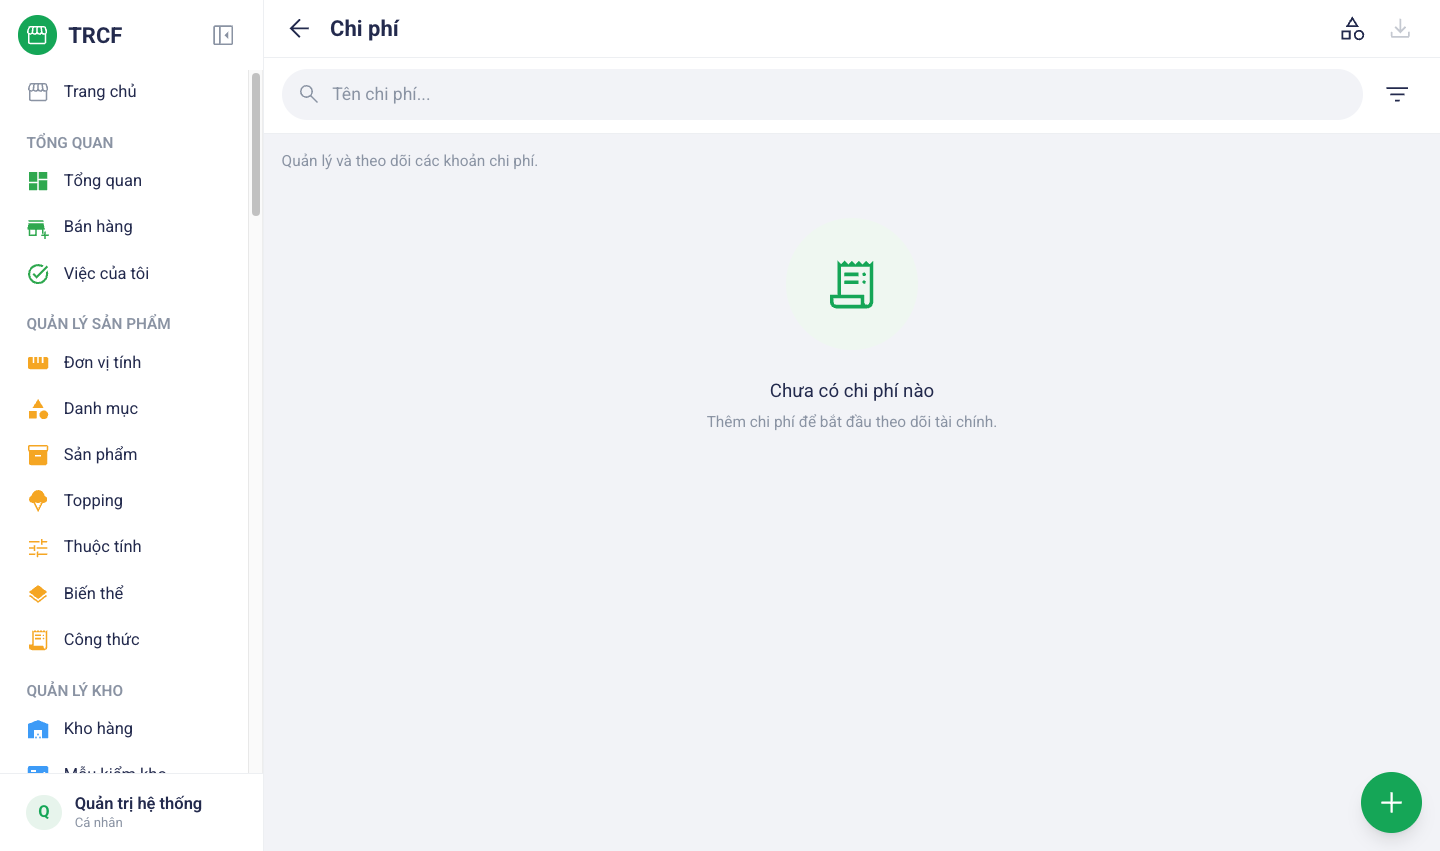
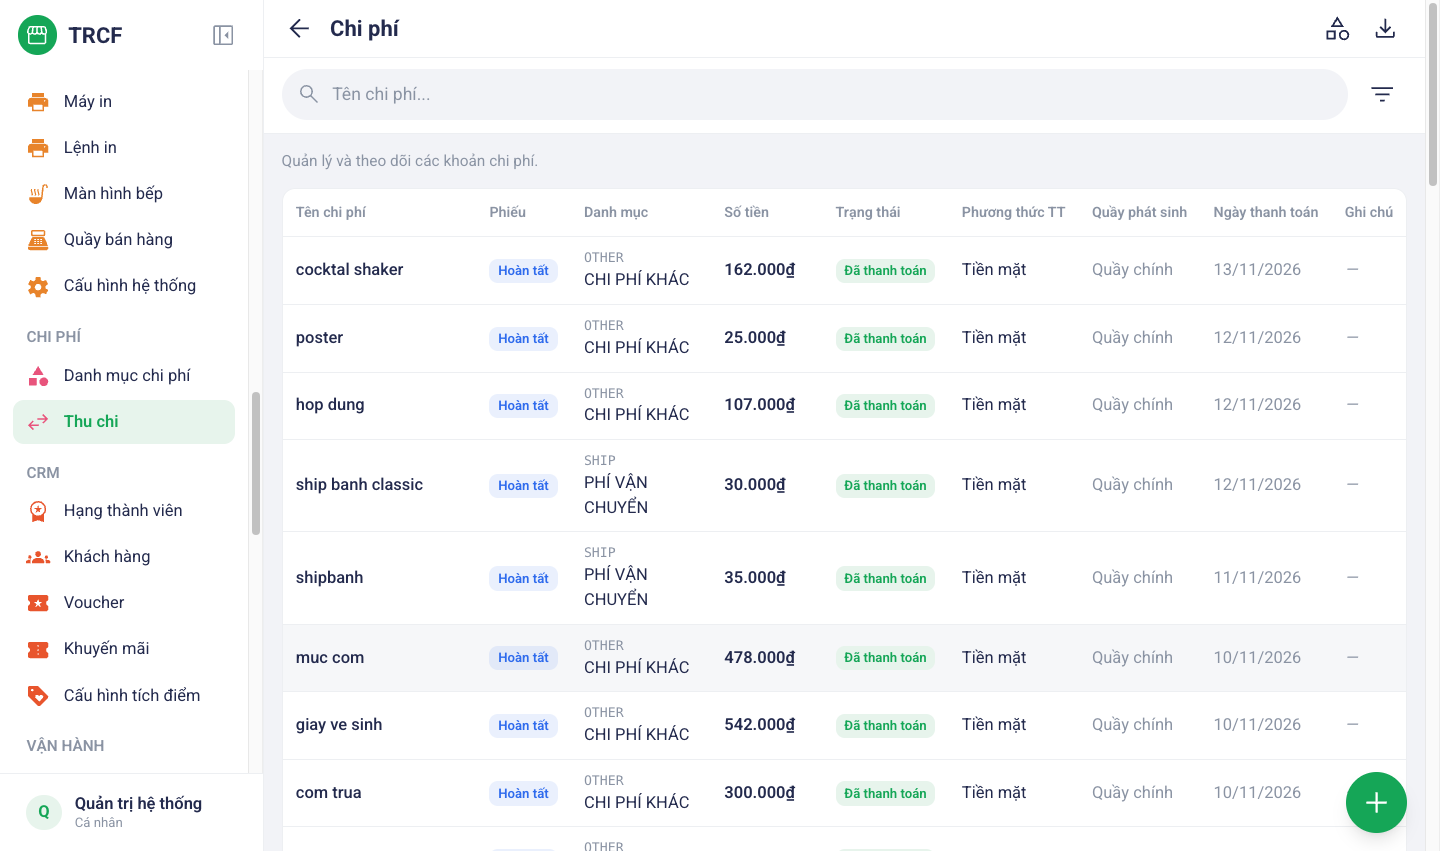
docs(10.2): phiếu chi thật — ship bánh 30.000₫ tiền mặt từ Quầy chính

diff --git a/noi-dung/10-2-tao-chi-phi.md b/noi-dung/10-2-tao-chi-phi.md
@@ -15,9 +15,9 @@ hoặc ở màn ==Bán hàng → VẬN HÀNH → Chi phí==.
 
 ## 2. Ví dụ nền và các bước thực hiện
 
-> **Ví dụ:** trả tiền điện tháng 10 bằng tiền mặt lấy từ két **Quầy chính**.
+> **Ví dụ:** ngày 12/11/2026, shipper giao bánh CROISSANT CLASSIC, quán trả 30.000₫ tiền ship bằng tiền mặt lấy từ két **Quầy chính**.
 >
-> - Số tiền **1.200.000₫**, danh mục **Tiền điện**.
+> - Danh mục **PHÍ VẬN CHUYỂN** ([bài 10.1](10-1-danh-muc-chi-phi.md)).
 > - Phiếu **Hoàn tất** và **Đã thanh toán** để trừ vào sổ quỹ.
 
 ### Bước 1: Mở trang Chi phí
@@ -32,7 +32,7 @@ hoặc ở màn ==Bán hàng → VẬN HÀNH → Chi phí==.
 
 - Bấm nút tròn **+** ở góc dưới bên phải.
 - Điền **Số tiền**, **Tên chi phí**, **Ngày thanh toán** như ảnh.
-- **Danh mục chi phí**: bấm vào ô, chọn **Tiền điện**.
+- **Danh mục chi phí**: bấm vào ô, chọn **SHIP · PHÍ VẬN CHUYỂN**.
 
 ![Bước 2: Khai nội dung chi](images/06-chi-phi-buoc-2-form.png)
 
@@ -51,7 +51,7 @@ hoặc ở màn ==Bán hàng → VẬN HÀNH → Chi phí==.
 | Trường | Điền gì | Bắt buộc |
 | --- | --- | --- |
 | Số tiền (₫) | Số tiền chi, nhập ở ô số lớn đầu hộp thoại | ✅ |
-| Tên chi phí | Mô tả ngắn: **Tiền điện tháng 10** | ✅ |
+| Tên chi phí | Mô tả ngắn, có dấu để dễ tìm: **Ship bánh Classic**, **Giấy vệ sinh** | ✅ |
 | Danh mục chi phí | Nhóm để báo cáo lãi lỗ gom đúng chỗ | ✅ |
 | Ngày thanh toán | Ngày trả tiền thật | ✅ |
 
